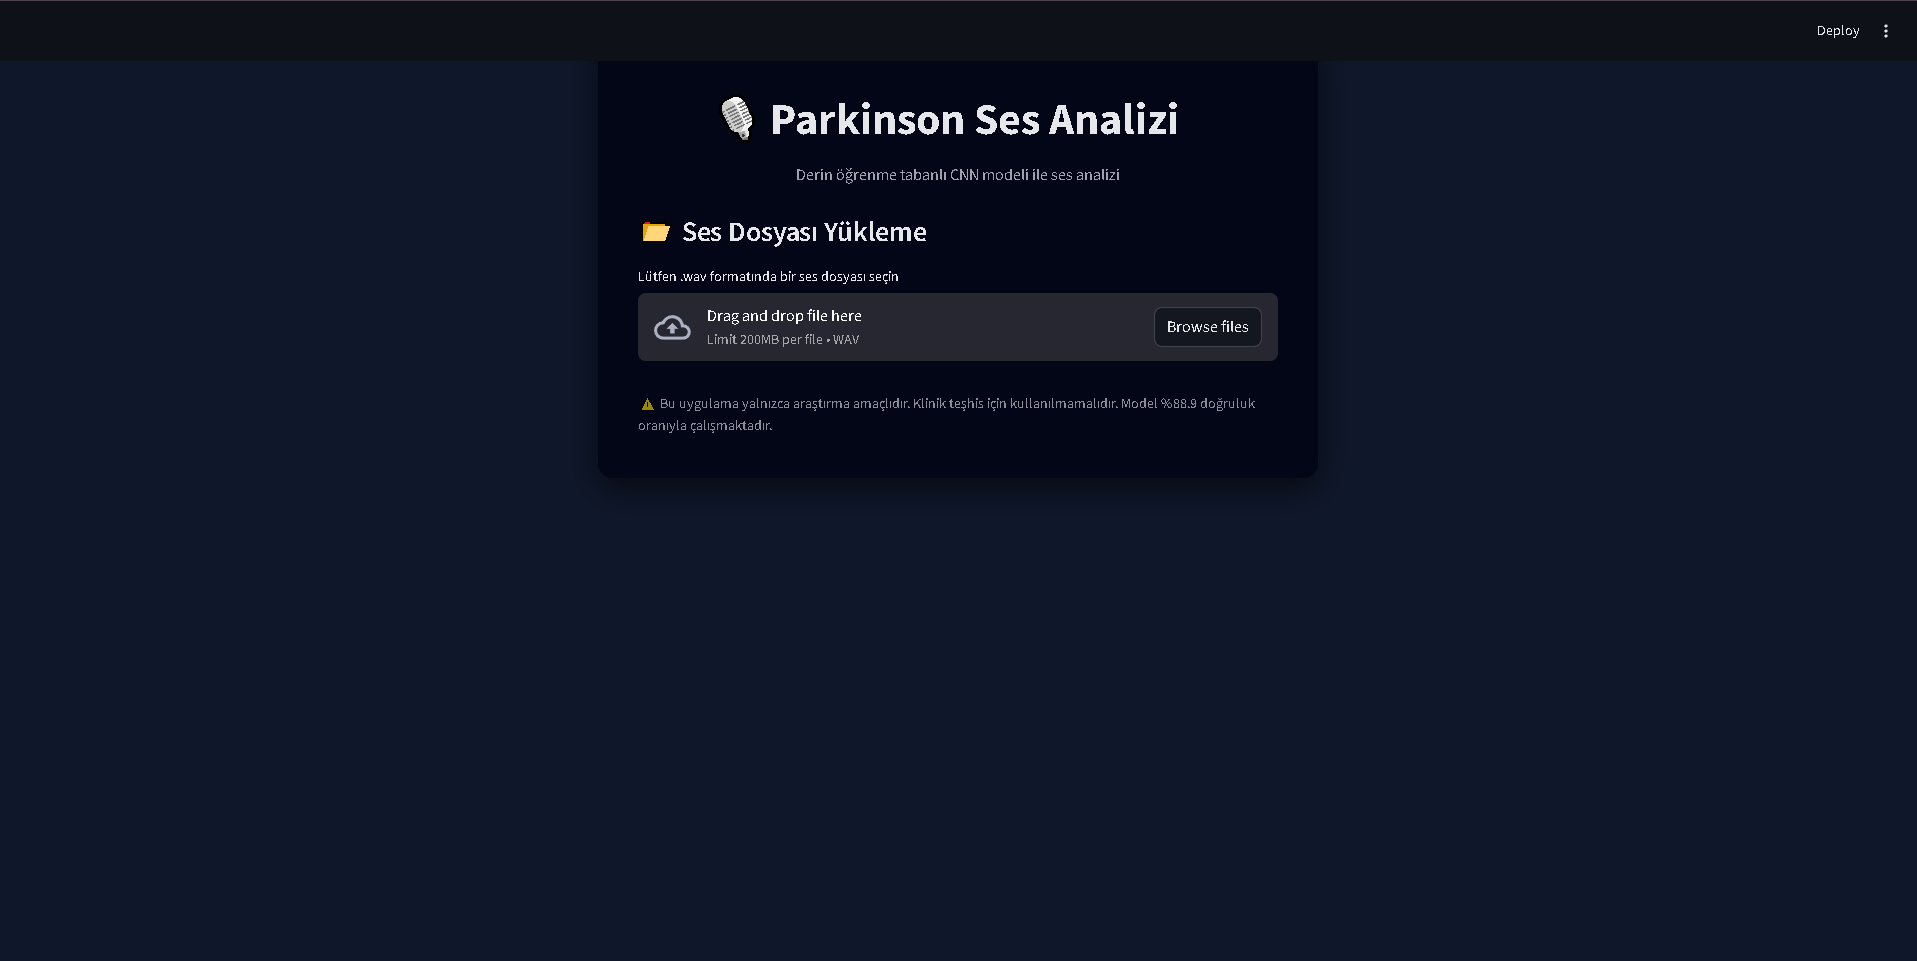
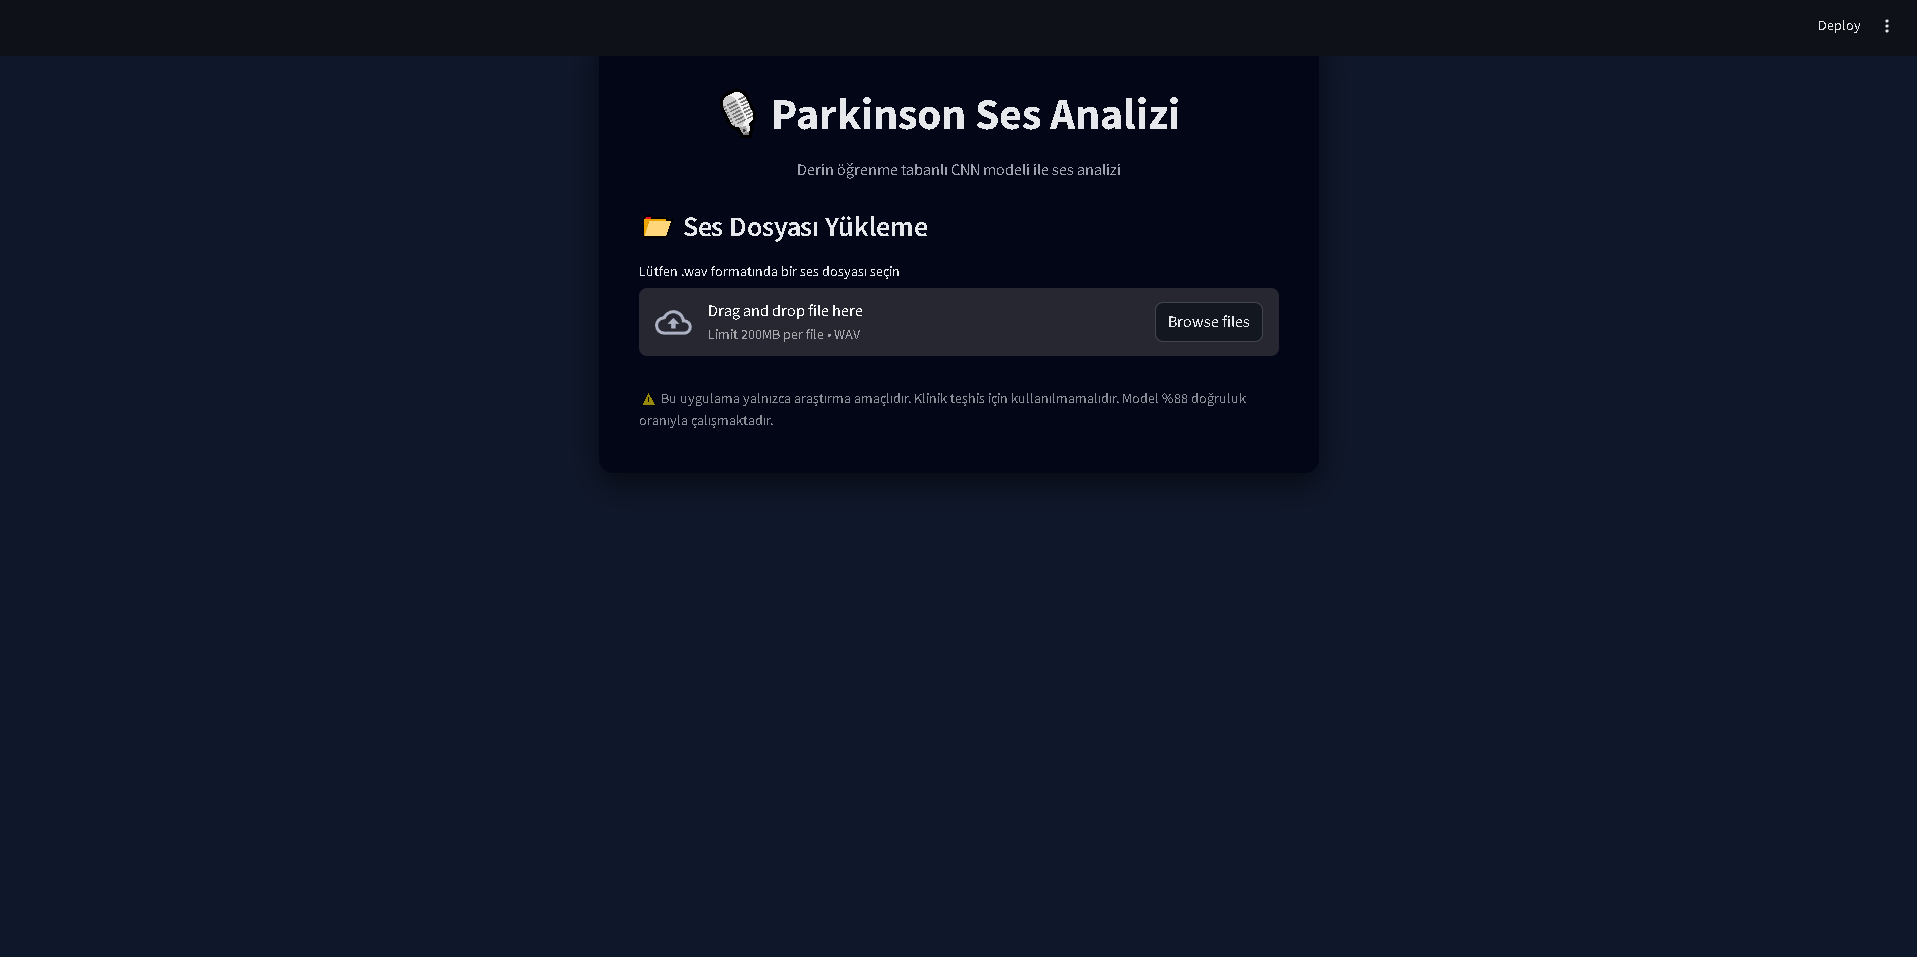
Update app screenshot in README

Changed region(s): [[0.3385, 0.0909, 0.6771, 0.4545]]

diff --git a/README.md b/README.md
@@ -14,7 +14,7 @@
 
 ParkinsonVoiceNet is an end-to-end machine learning pipeline that analyzes raw voice recordings to detect Parkinson's disease. The project spans the full lifecycle of a data science project — from exploratory data analysis and acoustic feature engineering to deep learning model development and deployment as an interactive web application.
 
-The system extracts 142-dimensional acoustic feature vectors (MFCC, ZCR, Mel-Spectrogram) from `.wav` files and feeds them into a custom 1D CNN architecture trained on 540 voice recordings, achieving **88% accuracy** and an **F1 score of 0.897**.
+The system extracts 142-dimensional acoustic feature vectors (MFCC, ZCR, Mel-Spectrogram) from `.wav` files and feeds them into a custom 1D CNN architecture trained on 540 voice recordings, achieving **88% accuracy** and an **F1 score of 0.88**.
 
 > ⚠ **Disclaimer:** This application is intended for research purposes only and should not be used for clinical diagnosis.
 
